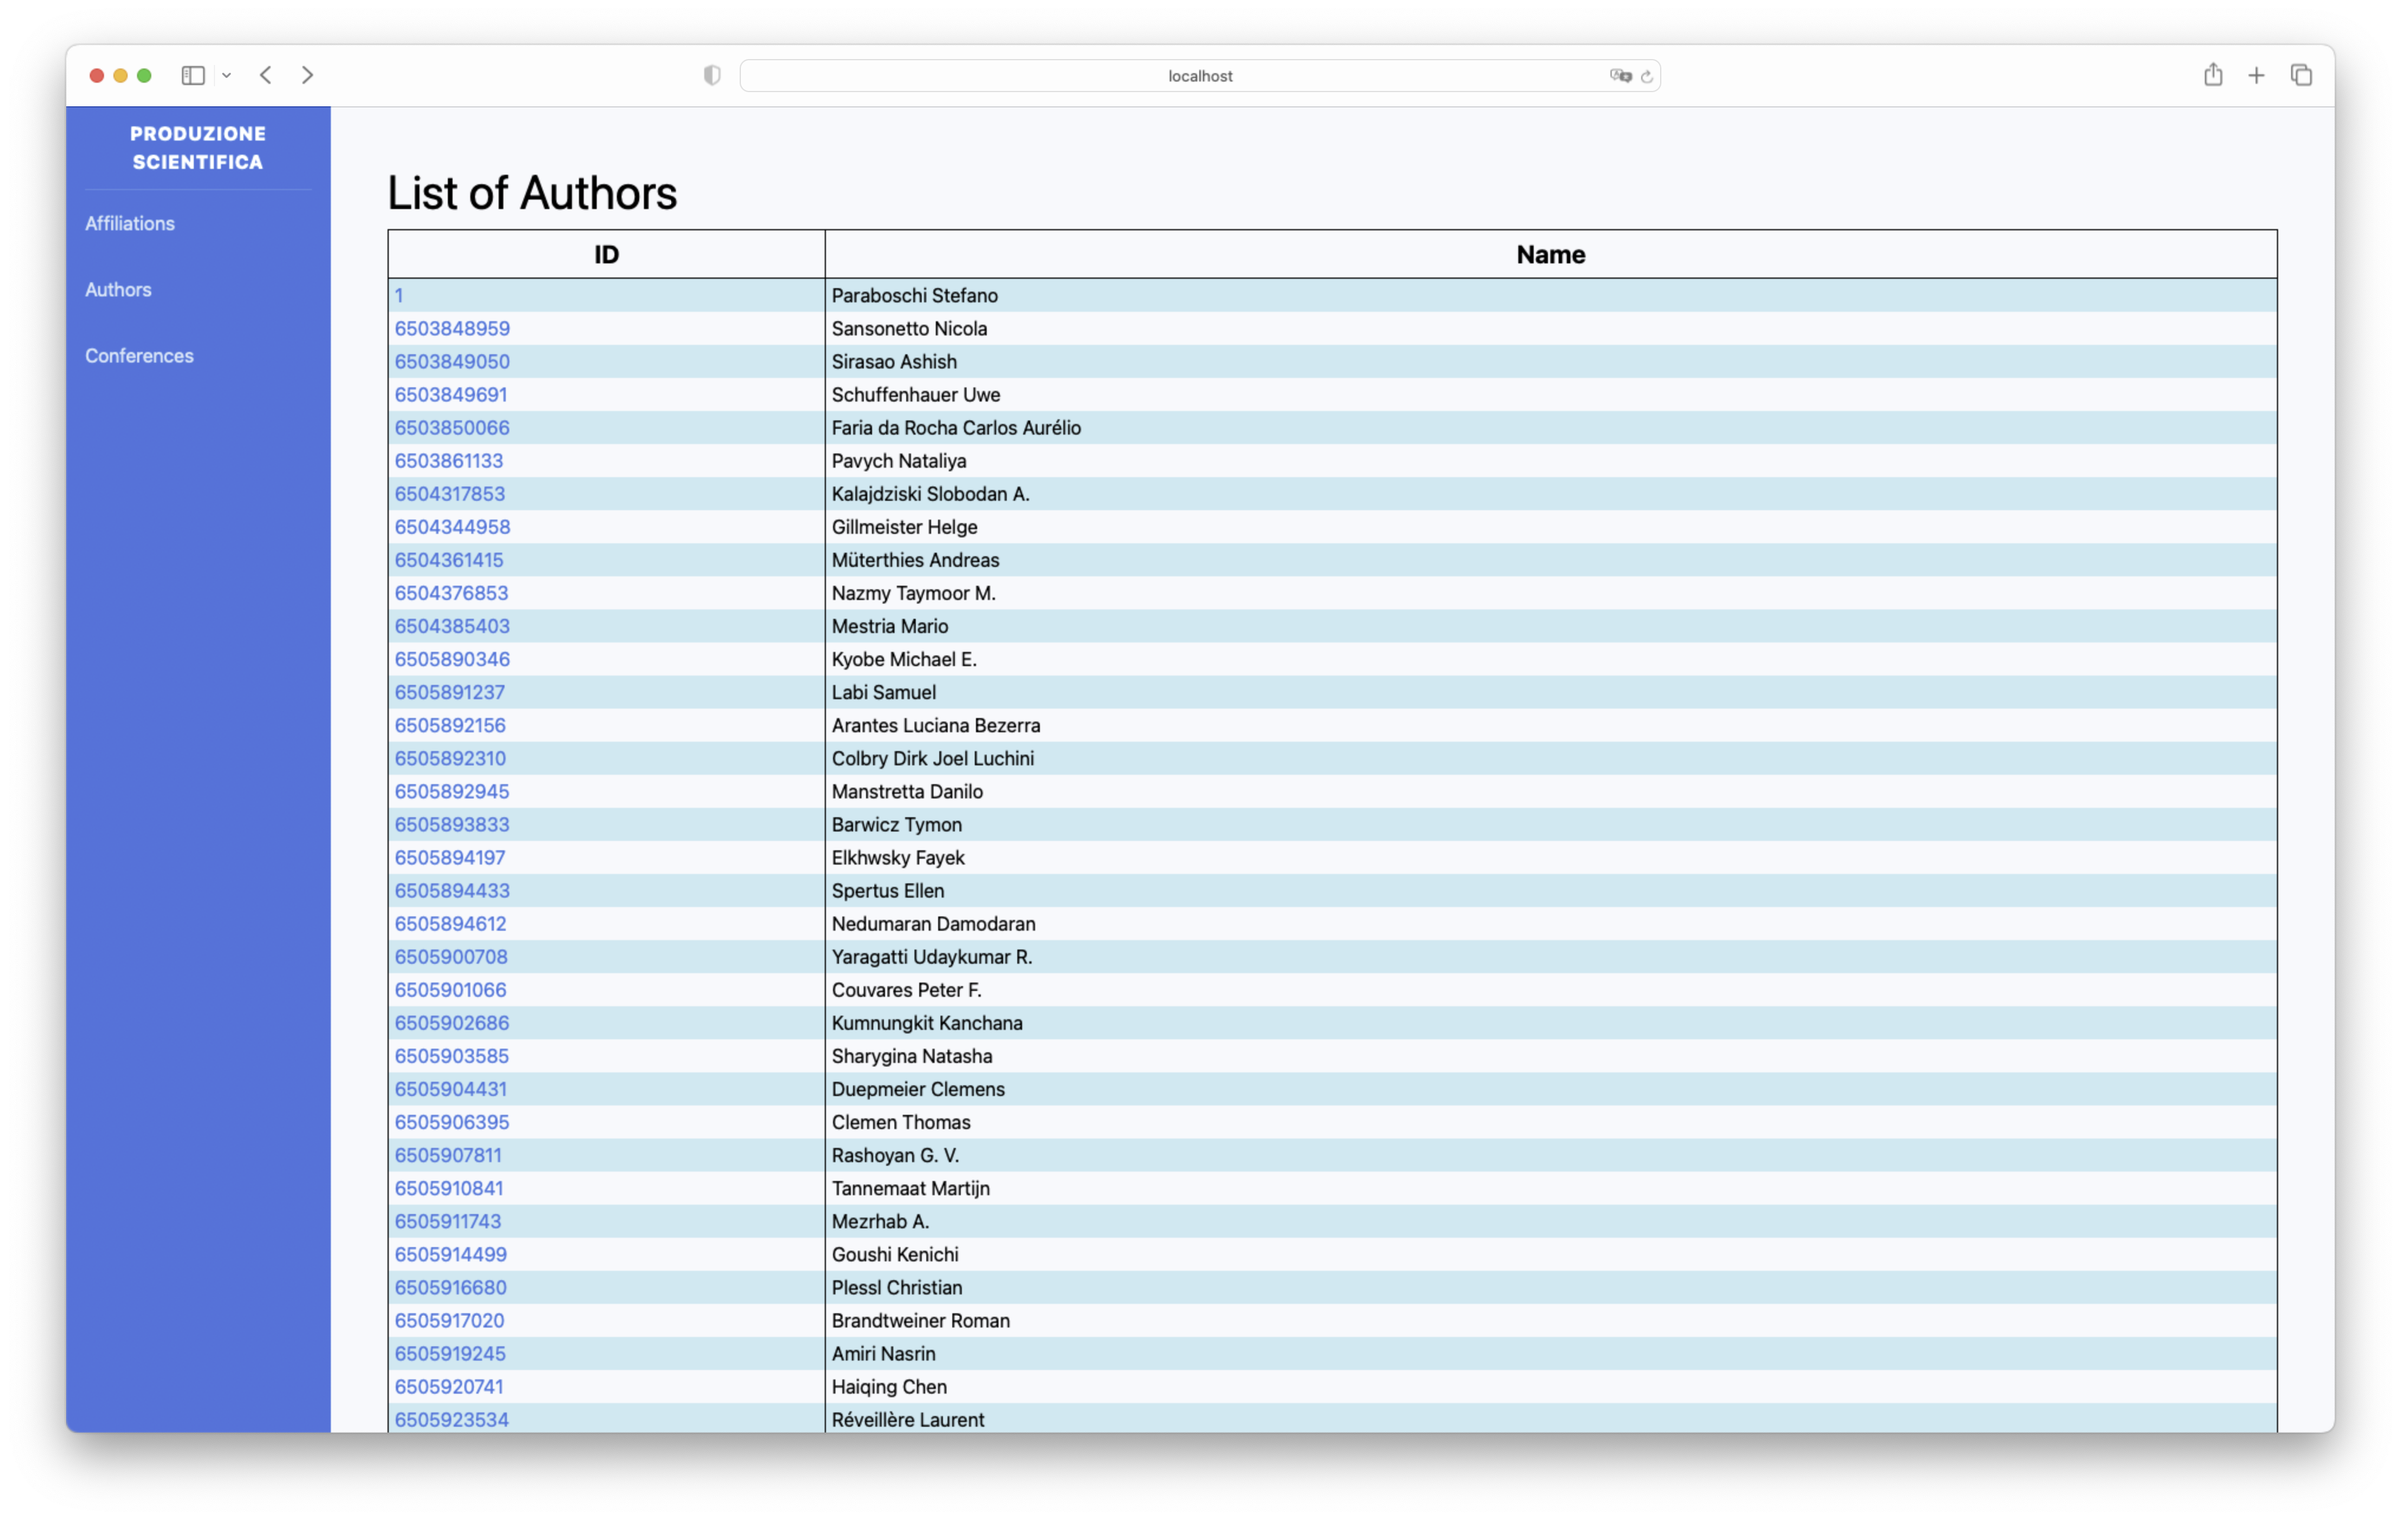
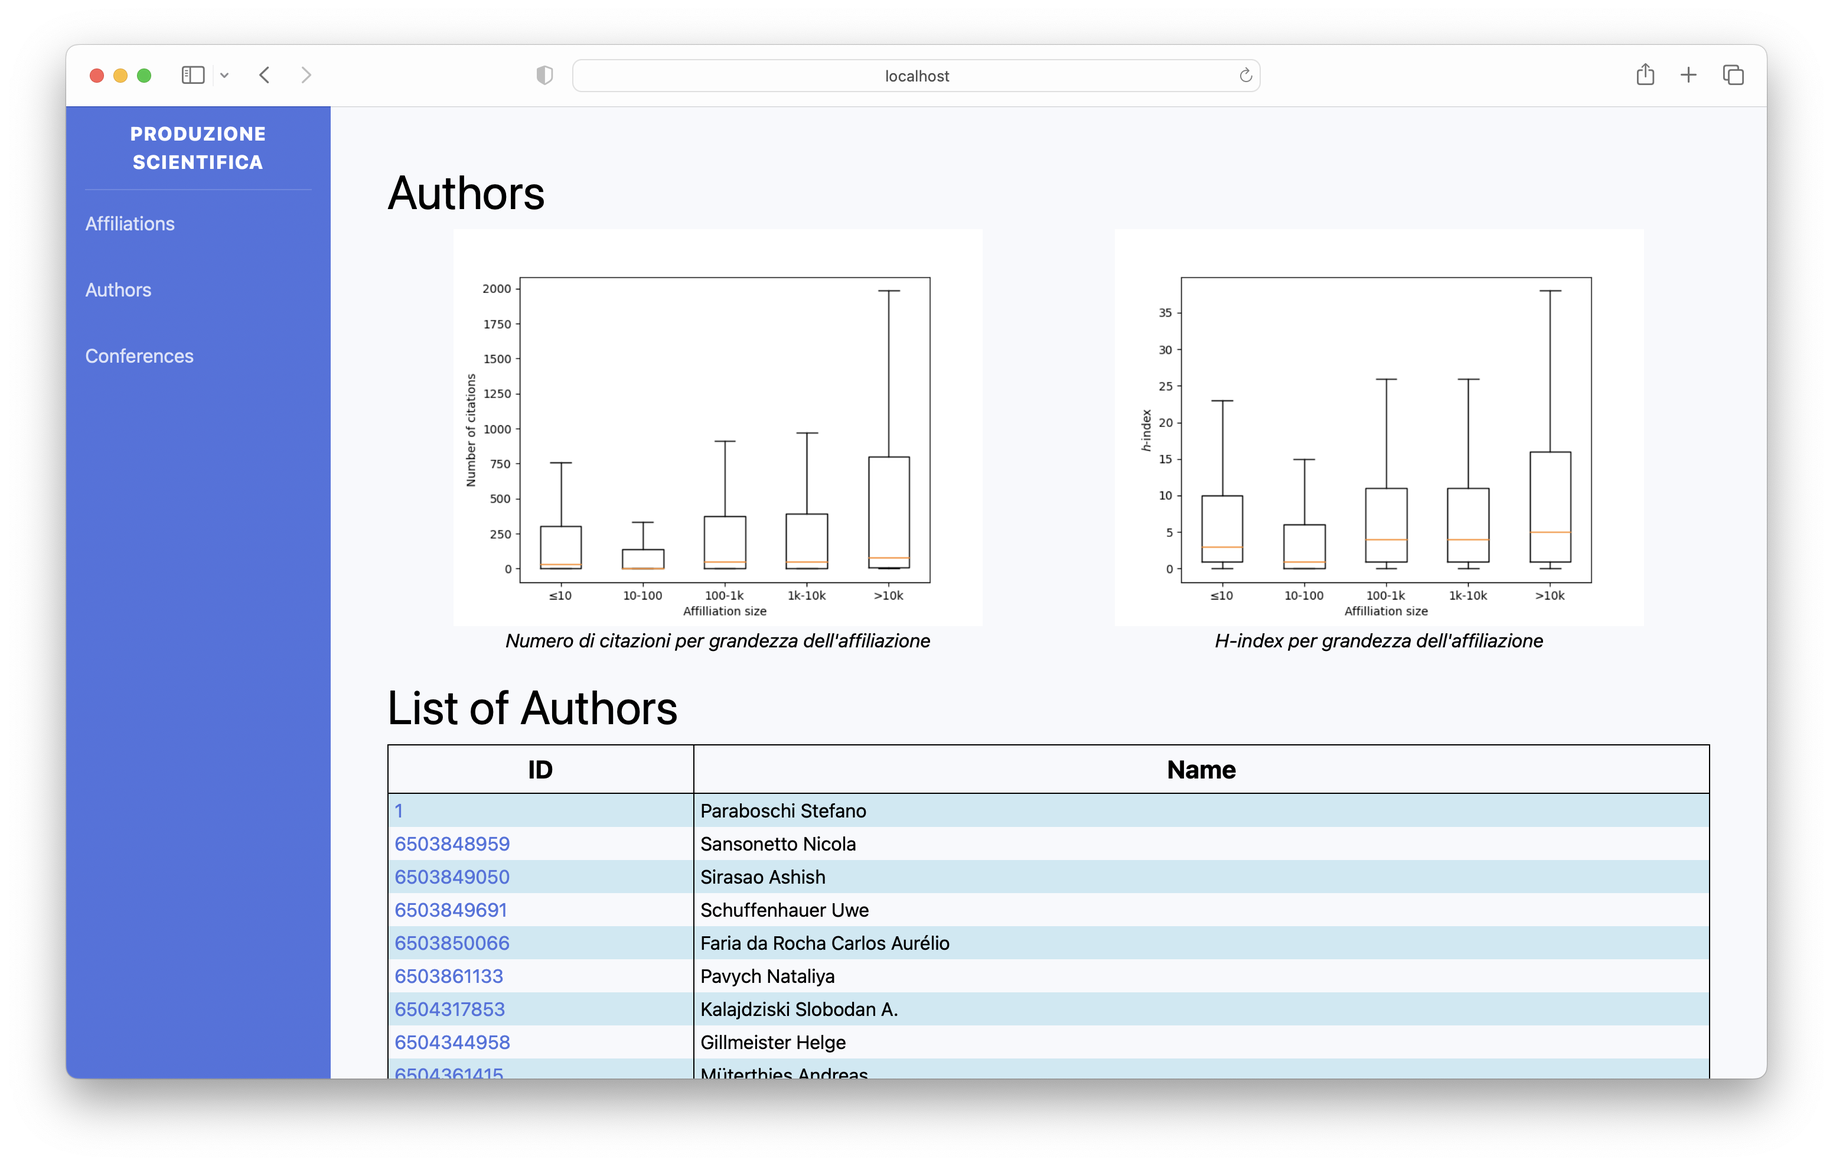
Fix metriche e implementazione

diff --git a/chapters/Implementazione.tex b/chapters/Implementazione.tex
@@ -226,6 +226,36 @@ Conferences - Produzione Scientifica
 {% endblock title %}
 
 {% block content %}
+<h1>Conferences</h1>
+
+<div class="info" style="flex-wrap: wrap;">
+  <div class="info-img">
+    <img src="{% url 'conferences_distribution.png' %}" />
+    <span>Distribuzione delle conferenze</span>
+  </div>
+  
+  <div class="info-img">
+    <img src="{% url 'paper_rating_distribution.png' %}" />
+    <span>Distribuzione citazioni per rating</span>
+  </div>
+  
+  <div class="info-img">
+    <img src="{% url 'paper_rating_distribution_impact.png' %}" />
+    <span>Distribuzione citazioni di paper d'impatto per rating</span>
+  </div>
+
+  <div class="info-img">
+    <img src="{% url 'h_index_vs_conference_rating' %}" />
+    <span>Distribuzione h-index per rating</span>
+  </div>
+
+  <div class="info-img">
+    <img src="{% url 'h_index_vs_top_conferences' %}" />
+    <span>Distribuzione h-index top conferences</span>
+  </div>
+  
+</div>
+
 <h1>List of Conferences</h1>
 
 <table>
@@ -454,8 +484,7 @@ Di seguito è descritta come è stata realizzata la dashboard per la visualizzaz
 Come stile delle pagine web viene utilizzato \textit{Bootstrap}, un framework per lo sviluppo front-end. 
 Nel file \texttt{base.html}, contenuto nella directory \texttt{templates}, è contenuto il codice dello stile, che presenta una barra laterale per la navigazione del sito.
 
-Come visibile dal codice, in Django si utilizza il tag \texttt{\{\% block \%\}} per definire un blocco che può essere sovrascritto dai modelli che ne derivano. In questo codice viene definito il blocco del modello base, per ogni pagina verrà poi definito un blocco figlio con contenuti diversi. I blocchi utilizzati sono:
-
+In Django si utilizza il tag \texttt{\{\% block \%\}} per definire un blocco che può essere sovrascritto dai modelli che ne derivano. I blocchi utilizzati sono:
 
 \begin{itemize}
   \item \texttt{\{\% block title \%\}}: per il titolo della pagina web;
@@ -467,25 +496,36 @@ Nella Figura~\ref{fig:homepage} è mostrata l'hompage del sito che contiene una 
 
 Nella barra di sinistra è possibile andare a visitare le pagine che mostrano più nel dettaglio i dati riguardanti conferenze, autori e affiliazioni. Queste verranno descritte più approfonditamente nelle sezioni successive.
 
-\todo{Descrivere cosa si visualizza nella prima pagina}
+Nella dashboard vengono mostrati i quattro principali grafici estrapolati dall'analisi dei dati: i grafici posti in alto alla pagina mostrano la distribuzione delle conferenze in base al reting e degli $h$-index dei paper; i grafici posti in basso invece mostrano la produttività per nazione in base all'affiliazione e gli $h$-index degli autori per dimensione dell'affiliazione.
 
 \begin{figure}
   \centering
   \includegraphics[width=0.8\linewidth]{homepage.png}
-  \caption{Modello ER del problema}
+  \caption{Homepage della dashboard}
   \label{fig:homepage}
 \end{figure}
 
 \subsection{Conferenze}
-In questa pagina sono visibili tutte le informazioni relative alle conferenze.
+In questa pagina sono visibili tutte le informazioni relative alle conferenze, come visibile in Figura~\ref{fig:conferences}.
+Sono visibili i grafici riguardanti:
+\begin{itemize}
+  \item La distribuzione delle conferenze in base ai principali rating;
+  \item La distribuzione del numero di citazioni del paper in base ai principali rating;
+  \item La distribuzione del numero di citazioni di paper di impatto in base ai principali rating;
+  \item La distribuzione dell'$h$-index di un autore in base ai principali rating;
+  \item Distribuzione degli $h$-index di un autore per le top conferences di sicurezza.
+\end{itemize}
 
-È possibile consultare l'elenco delle conferenze con il rispettivo acronimo e rating, come visibile in Figura~\ref{fig:list-conferences}. Nel Listing~\ref{lst:django-template} è mostrato il codice per la visualizzazione della tabella delle conferenze.
+\begin{figure}
+  \centering
+  \includegraphics[width=0.8\linewidth]{conferences.png}
+  \caption{Pagina delle conferenze}
+  \label{fig:conferences}
+\end{figure}
 
-Per ogni conferenza vi è poi un collegamento alla pagina dedicata che contiene le informazioni della conferenza, come visibile in Figura~\ref{fig:info-conference}.
 
-\todo{Descrivere un po' l'immagine (quando ci sarà)}
+Inoltre, nella stessa pagina, è possibile consultare l'elenco delle conferenze con il rispettivo acronimo e rating, come visibile in Figura~\ref{fig:list-conferences}. Nel Listing~\ref{lst:django-template} è mostrato il codice della pagina.
 
-Infine sono presenti le immagini ricavate dalle analisi fatte sui dati, con la spiegazione delle singole metriche.
 
 \begin{figure}
   \centering
@@ -494,19 +534,14 @@ Infine sono presenti le immagini ricavate dalle analisi fatte sui dati, con la s
   \label{fig:list-conferences}
 \end{figure}
 
-\begin{figure}
-  \centering
-  \includegraphics[width=0.8\linewidth]{conference_info.png}
-  \caption{Pagina per la visualizzazione delle informazioni di una singola conferenza}
-  \label{fig:info-conference}
-\end{figure}
-
-
-
 \subsection{Autori}
 Nella pagina sono disponibili le informazioni relative agli autori e le metriche che sono state analizzate.
 
-Come fatto per le conferenze, anche per gli autori è disponibile una lista che mostra l'id dell'autore e il nome, come visibile in Figura~\ref{lista-autori}.
+Come fatto per le conferenze, anche per gli autori sono disponibili i grafici delle metriche che li riguardano e una lista che mostra l'id dell'autore e il nome, come visibile in Figura~\ref{lista-autori}. I grafici consultabili sono:
+\begin{itemize}
+  \item Numero di citazioni dell'autore in base alla grandezza delle affiliazioni;
+  \item $H$-index dell'autore per grandezza dell'affiliazione.
+\end{itemize}
 
 Per ogni autore poi è possibile visualizzare i suoi dati, come il numero di citazioni e l'$h$-index. Inoltre viene mostrata anche la distribuzione delle conferenze a cui ha partecipato, calcolata come visibile nel Listing~\ref{lst:distribuzione-autore}.
 
@@ -523,7 +558,7 @@ Per ogni autore poi è possibile visualizzare i suoi dati, come il numero di cit
 \begin{figure}
   \centering
   \includegraphics[width=0.8\linewidth]{author_list.png}
-  \caption{Pagina per la visualizzazione della lista di autori}
+  \caption{Pagina degli autori}
   \label{fig:lista-autori}
 \end{figure}
 
@@ -531,7 +566,24 @@ Per ogni autore poi è possibile visualizzare i suoi dati, come il numero di cit
 
 \subsection{Affiliazioni}
 
-%%Affiliation lista
+Nella pagina sono disponibili le informazioni relative alle affiliazioni e le metriche che sono state analizzate.
+
+Come prima, anche per le affiliazioni sono disponibili i grafici delle metriche che li riguardano e una lista per visualizzarne l'elenco, come visibile in Figura~\ref{fig:affiliations}. I grafici consultabili sono:
+\begin{itemize}
+  \item Numero di autori per nazione;
+  \item Numero di documenti per nazione;
+  \item Produttività per nazione.
+\end{itemize}
+
+\begin{figure}
+  \centering
+  \includegraphics[width=0.8\linewidth]{affiliations.png}
+  \caption{Pagina delle affiliazioni}
+  \label{fig:affiliations}
+\end{figure}
+
+Nel Listing~\ref{lst:affiliation_html} è mostrato il codice per l'implementazione della pagina. 
+
 \begin{lstlisting}[language=html, caption=Estratto di \texttt{template/affiliation.html}, label=lst:affiliation_html]
 {% extends "base.html" %}
 
@@ -540,6 +592,24 @@ Affiliations - Produzione Scientifica
 {% endblock title %}
 
 {% block content %}
+<div class="info">
+  <div class="info-img">
+    <img src="{% url 'num_authors_per_country' %}" />
+    <span>Numero autori per nazione</span>
+  </div>
+  
+  <div class="info-img">
+    <img src="{% url 'num_documents_per_country' %}" />
+    <span>Numero documenti per nazione</span>
+  </div>
+  
+  <div class="info-img">
+    <img src="{% url 'productivity_per_country' %}" />
+    <span>Produttivit&agrave; per nazione</span>
+  </div>
+  
+</div>
+
 <h1>List of affiliations</h1>
 
 <table>

diff --git a/chapters/Metriche.tex b/chapters/Metriche.tex
@@ -257,7 +257,7 @@ fatta per la Cina. La produttività maggiore va invece verso nazioni come Brasil
 e India, subito seguite da Francia e Germania.
 Di conseguenza, i paesi in cui i ricercatori producono più lavori in media
 sono i paesi cosiddetti ``emergenti''.
-\todo{Capire se questa frase è da sistemare}
+
 
 \section{Metriche sugli autori}
 
@@ -359,7 +359,9 @@ in base alla dimensione dell'affiliazione.
 
 %%metriche su principali conferenze
 \section{Metriche sulle principali conferenze}
-In aggiunta alle metriche presentate finora, si è voluto fare un confronto più ristretto, concentrando le analisi sulle principali quattro conferenze che riguardano la sicurezza informatica: CCS, S\&P, Usenix e NDSS.
+In aggiunta alle metriche presentate finora, si è voluto fare un confronto più ristretto, concentrando le analisi sulle principali conferenze che riguardano la sicurezza informatica.
+
+Tali conferenze sono di norma considerate essere CCS, S\&P, USENIX e NDSS. Di queste, nelle analisi sono state considerate solo le prime due in quanto quelle con il maggior numero di dati presenti su Scopus. Inoltre, è dovere delle conferenze inviare i propri \textit{proceedings} a Scopus e non tutte decidono di condividere i propri dati.
 
 La \textit{ACM Conference on Computer and Communications Security}, CCS, è una conferenza che si tiene annualmente dal 1993 e che interessa ricercatori e professionisti che si occupano di sicurezza informatica. È la conferenza di maggior rilievo del SIGSAC (\textit{Special Interest Group on Security, Audit and Control}), la cui missione è quella di sviluppare sempre di più la sicurezza informatica, sponsorizzando conferenze di alta qualità in cui vengono affrontati aspetti riguaranti applicazioni sicure, crittografia, autenticazione, controllo degli accessi, analisi dei rischi e, in generale, tutto ciò che riguarda i sistemi sicuri. Inoltre si analizza la sicurezza nei database, nelle reti e nei sistemi operativi, considderando anche tutte le aree di applicazione che, per esempio, possono essere: la protezione della proprietà intellettuale, la moneta e il commercio elettronico, i sistemi di telecomunicazione. 
 
@@ -369,4 +371,13 @@ USENIX è un'orgnizzazione no-profit che dal 1975 sostiene e promuove la ricerca
 
 Anche il simposio NDSS (\textit{Network and Distributed System Security}) si occupa, dal 1993, dell'interazione e lo scambio di informazioni sulla sicurezza informatica, concentrandosi prevalentemente su progettazione e implementazione dei sistemi distribuiti. Ogni simposio mette a disposizione indicativamente 120 posti per presentare il proprio progetto di ricerca. Al fine di rendere fruibili le informazioni, i documenti accettati vengono poi messi a disposizione in modo gratuito al termine dell'evento.
 
-\subsection{Confronto tra $h$-index}
+\subsection{Distribuzione dell'$h$-index per conferenza}
+
+Confrontando il grafico mostrato in Figura~\ref{fig:h_index_vs_top_conferences} con quello mostrato in Figura~\ref{fig:h-index-vs-rating} si nota che gli $h$-index più bassi dominano rispetto agli altri in entrambi i casi. La differenza è visibile nella presenza maggiore di $h$-index più alti, in particolare attorno a 40.
+Questo è atteso in quanto è ragionevole supporre che ricercatori con un profilo di maggior livello, e quindi $h$-index più alto, tendano a sottomettere i loro lavori a conferenze considerate le migliori nel loro campo.
+
+\begin{figure}[tb]
+  \includegraphics[width=\linewidth]{h_index_vs_top_conferences}
+  \caption{Distribuzione di $h$-index per conferenze top}
+  \label{fig:h_index_vs_top_conferences}
+\end{figure}

diff --git a/chapters/Ringraziamenti.tex b/chapters/Ringraziamenti.tex
@@ -1,4 +1,4 @@
 \chapter*{Ringraziamenti}
-In conclusione di questo elaborato, voglio ringraziare il mio relatore Stefano Paraboschi e il SecLab per avermi seguito nello sviluppo del progetto.
+In conclusione di questo elaborato, voglio ringraziare il mio relatore Stefano Paraboschi e il Seclab per avermi seguito nello sviluppo del progetto e aver fornito il template per questa tesi.
 
 Ringrazio la mia famiglia e i miei amici per aver condiviso con me questi anni di università.

diff --git a/main.tex b/main.tex
@@ -59,9 +59,9 @@
 }
 % Workaround to make all listings float by default
 % https://tex.stackexchange.com/questions/128713/lstinputlisting-does-not-respect-the-lstset-float-option
-\makeatletter
-\let\lst@floatdefault\lst@float
-\makeatother
+% \makeatletter
+% \let\lst@floatdefault\lst@float
+% \makeatother
 
 \begin{document}
 \renewcommand{\abstractname}{Abstract}
